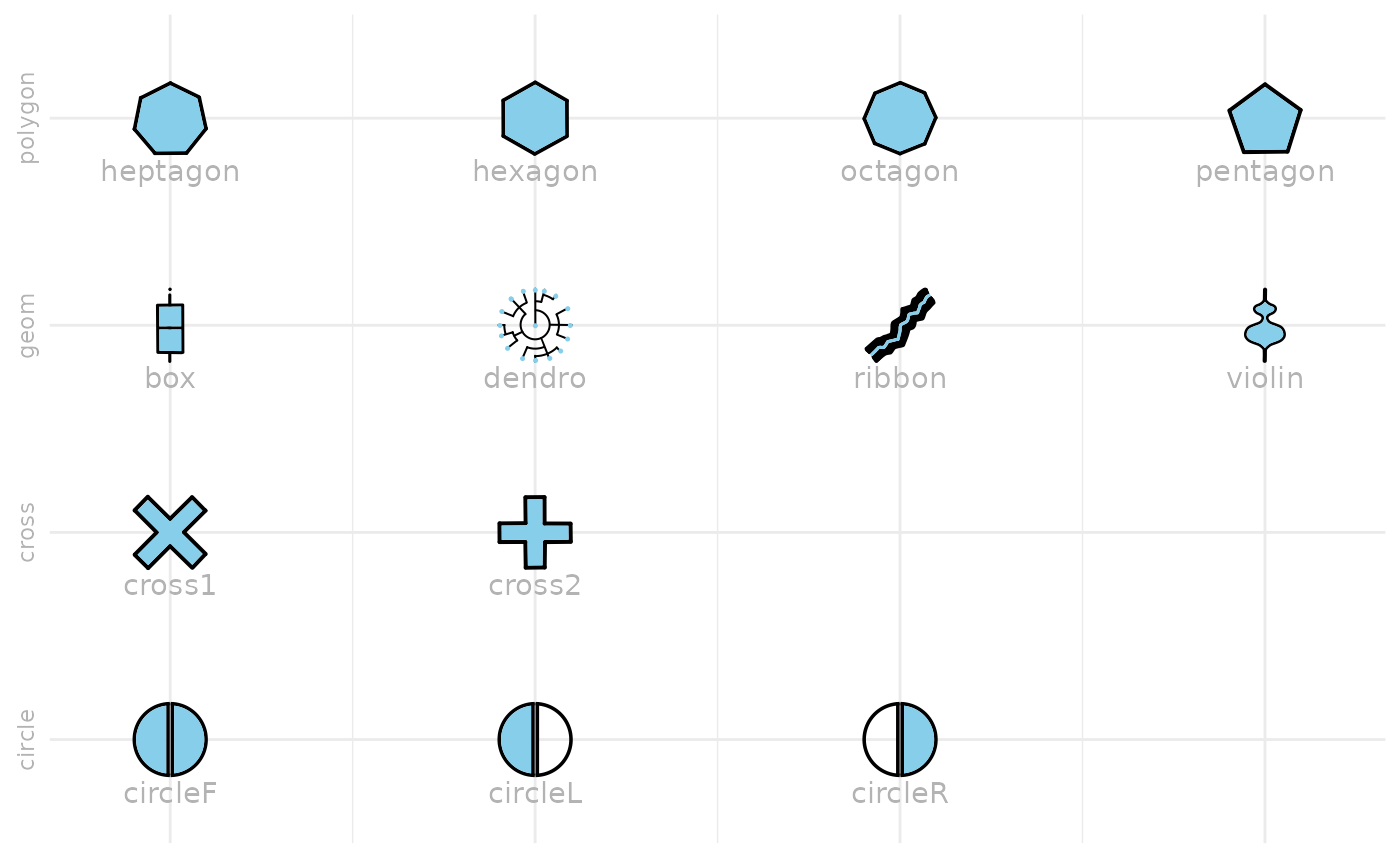
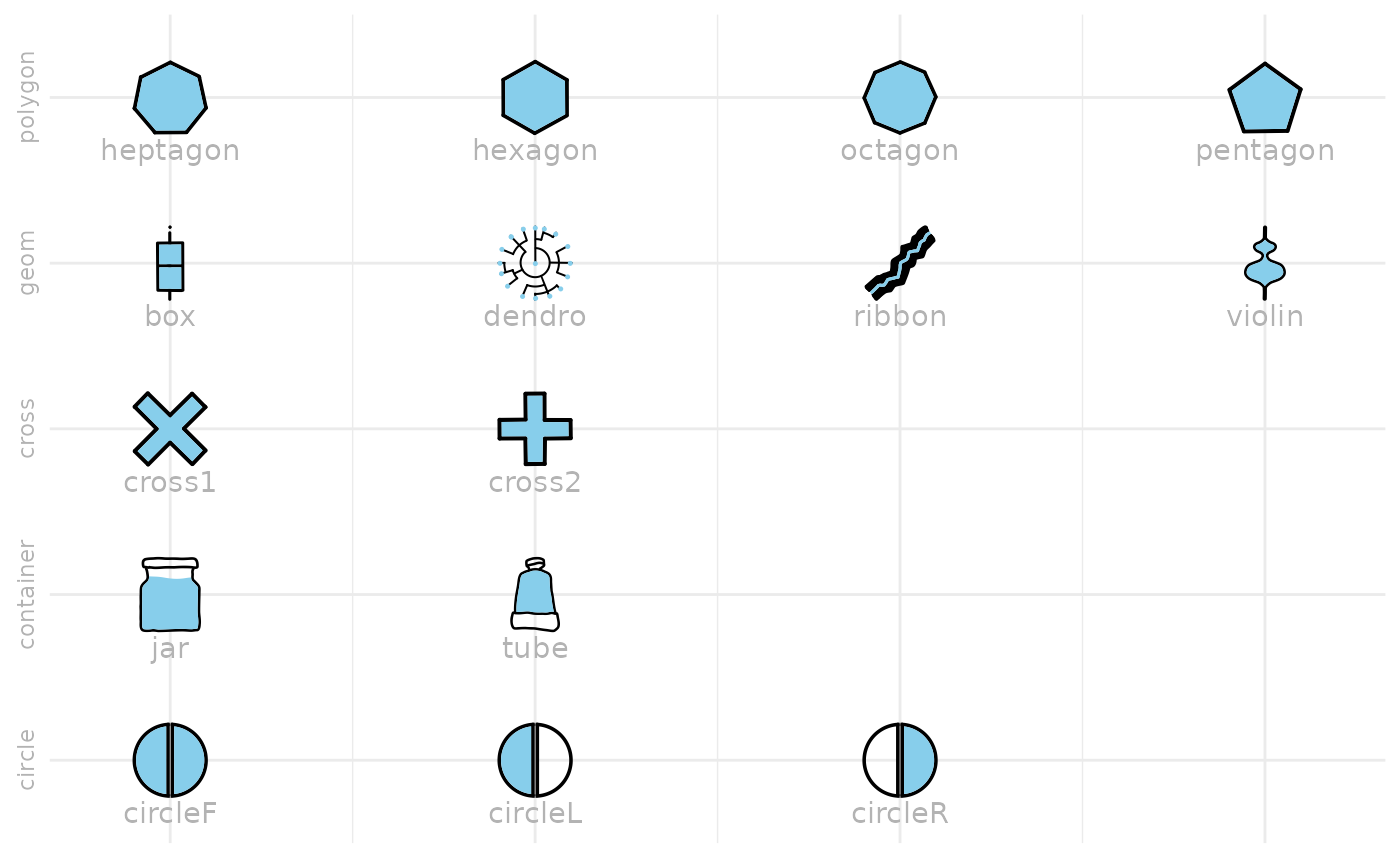
Deploying to gh-pages from @ cgoo4/ggfoundry@e1d0fe4179d8df0b02fa0da1eea9b20735da75ee 🚀

diff --git a/articles/ggfoundry.html b/articles/ggfoundry.html
@@ -199,7 +199,7 @@ i.e. shows letters.</p>
 <span><span class="fu"><a href="https://rdrr.io/pkg/showtext/man/showtext_auto.html" class="external-link">showtext_auto</a></span><span class="op">(</span><span class="op">)</span></span>
 <span></span>
 <span><span class="va">p2</span> <span class="op">&lt;-</span> <span class="va">p</span> <span class="op">+</span></span>
-<span>  <span class="fu"><a href="https://rdrr.io/pkg/ggtext/man/geom_richtext.html" class="external-link">geom_richtext</a></span><span class="op">(</span></span>
+<span>  <span class="fu"><a href="https://wilkelab.org/ggtext/reference/geom_richtext.html" class="external-link">geom_richtext</a></span><span class="op">(</span></span>
 <span>    <span class="fu"><a href="https://ggplot2.tidyverse.org/reference/aes.html" class="external-link">aes</a></span><span class="op">(</span>label <span class="op">=</span> <span class="st">"&lt;span style='font-family: \"fa-solid\"'&gt;&amp;#xf16c;&lt;/span&gt;"</span><span class="op">)</span>,</span>
 <span>    size <span class="op">=</span> <span class="fl">5</span>, label.colour <span class="op">=</span> <span class="cn">NA</span>,</span>
 <span>    <span class="op">)</span> <span class="op">+</span></span>

diff --git a/news/index.html b/news/index.html
@@ -49,10 +49,12 @@
 
     <div class="section level2">
 <h2 class="pkg-version" data-toc-text="development version" id="ggfoundry-development-version">ggfoundry (development version)<a class="anchor" aria-label="anchor" href="#ggfoundry-development-version"></a></h2>
-</div>
+<ul><li>Add shapes jar &amp; tube (container set)</li>
+</ul></div>
     <div class="section level2">
 <h2 class="pkg-version" data-toc-text="0.1.1" id="ggfoundry-011">ggfoundry 0.1.1<a class="anchor" aria-label="anchor" href="#ggfoundry-011"></a></h2><p class="text-muted">CRAN release: 2024-05-28</p>
-</div>
+<ul><li>Remove documentation helpers</li>
+</ul></div>
     <div class="section level2">
 <h2 class="pkg-version" data-toc-text="0.1.0" id="ggfoundry-010">ggfoundry 0.1.0<a class="anchor" aria-label="anchor" href="#ggfoundry-010"></a></h2>
 <ul><li>Initial CRAN submission.</li>
